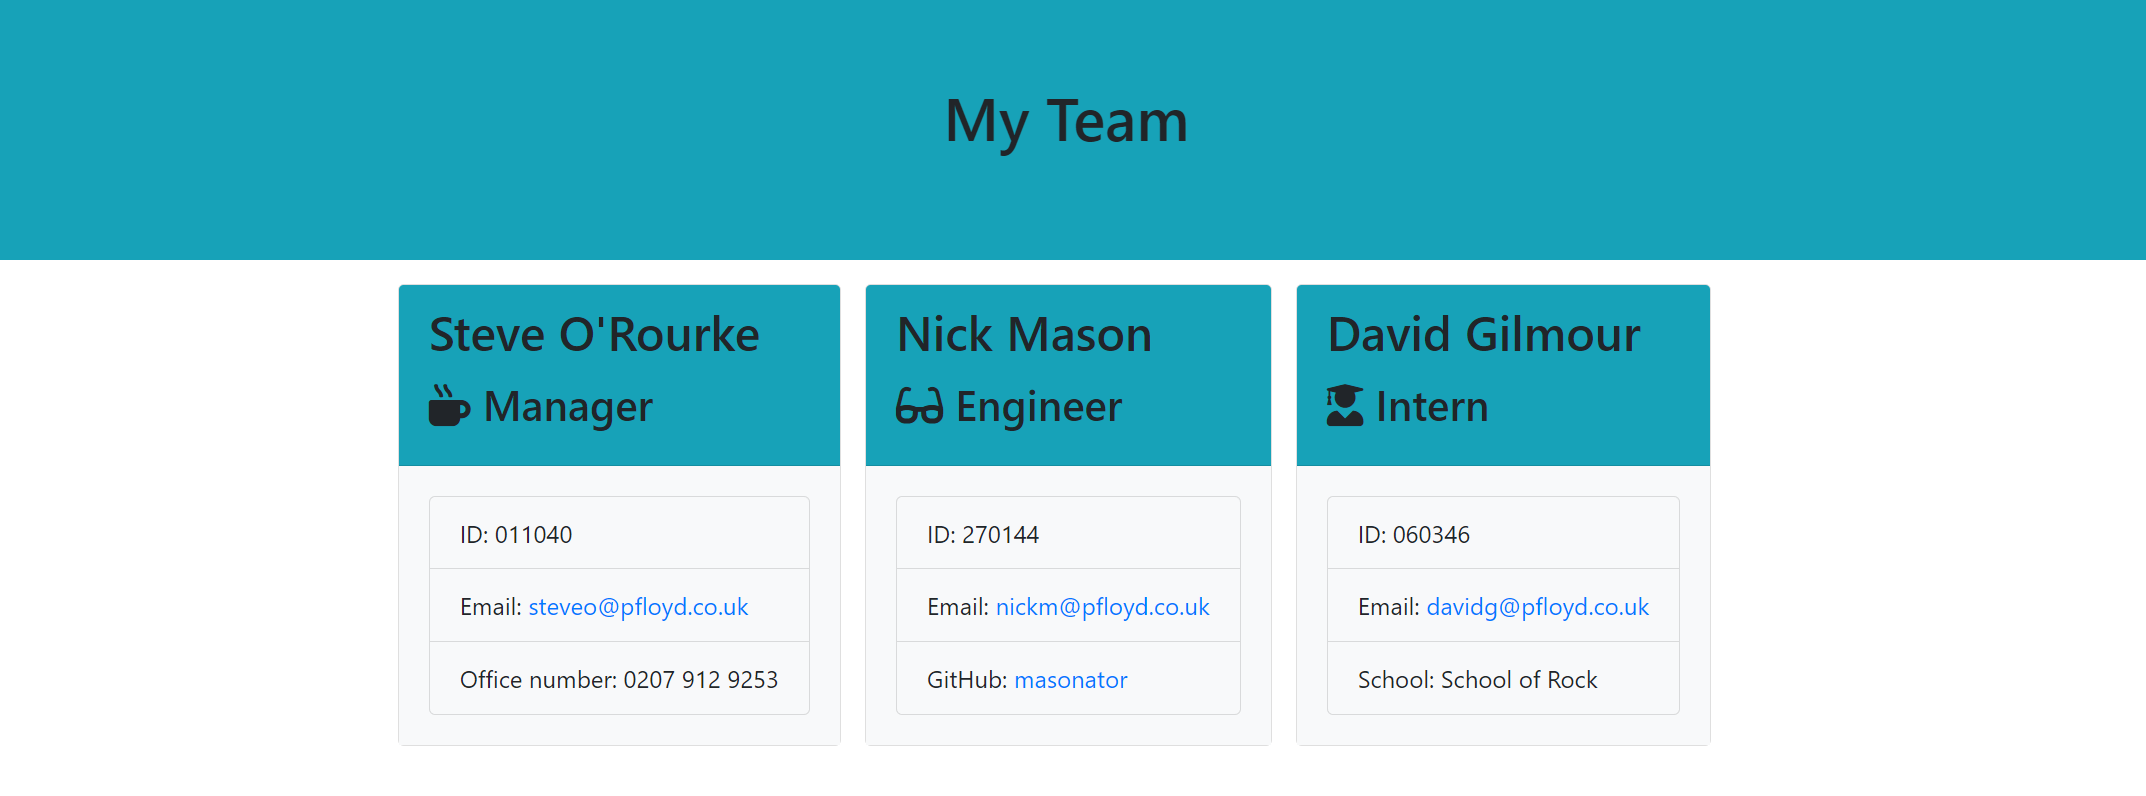
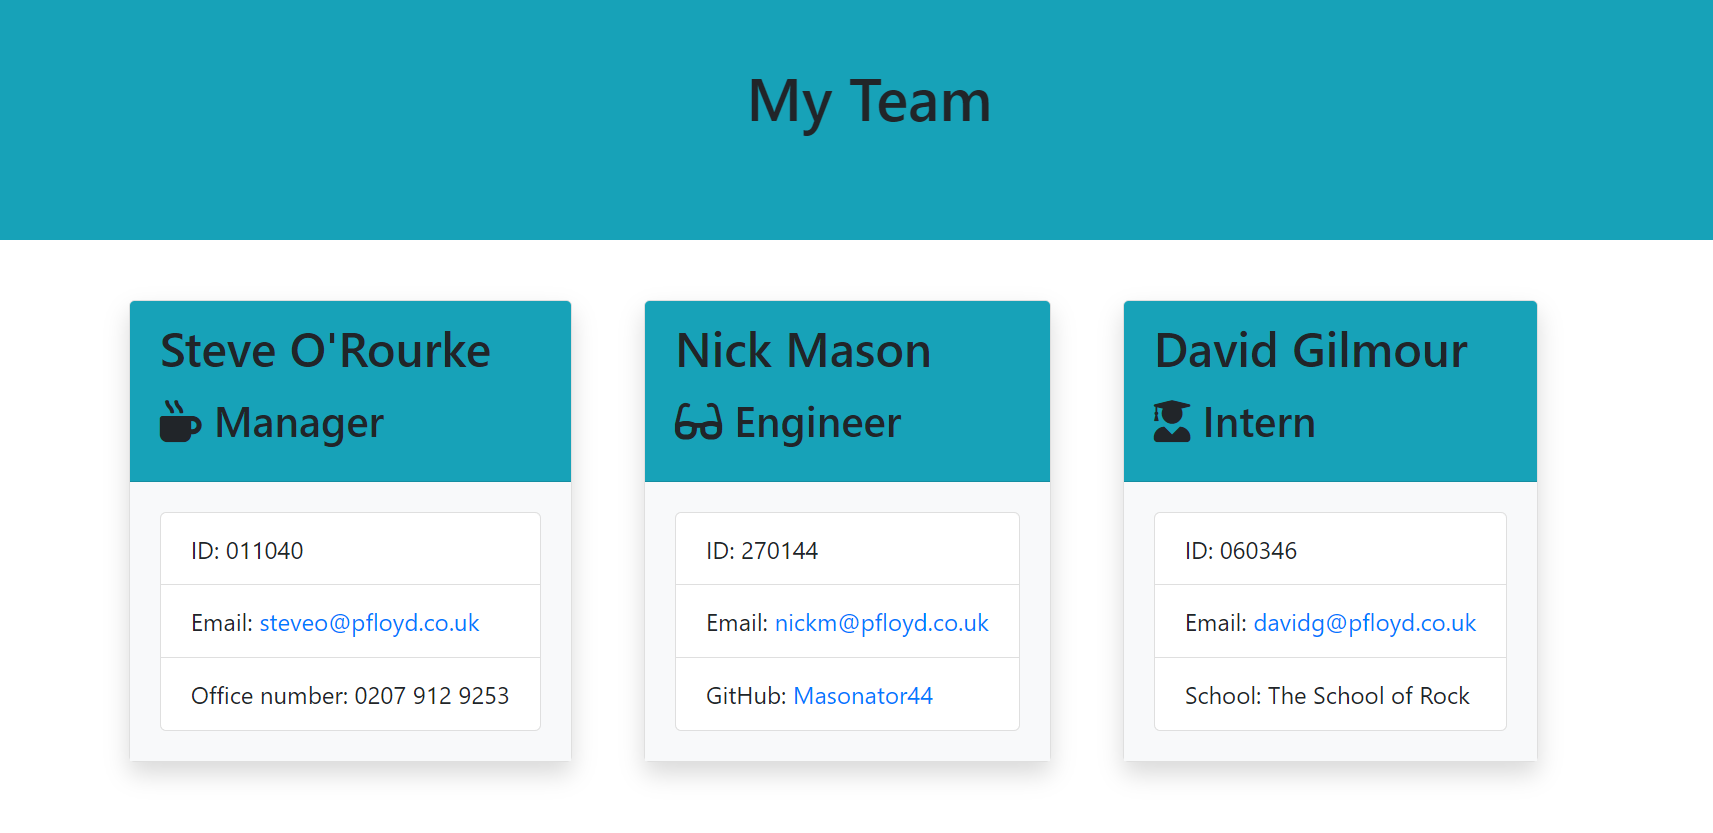
added flex wrap CSS to card containers to wrap cards to next row when lots of team members are added

diff --git a/src/page-template.js b/src/page-template.js
@@ -4,16 +4,16 @@ const generateTeam = team => {
     // creates the manager html
     const generateManager = manager => {
         return `
-        <div class="card employee-card mr-3">
+        <div class="card employee-card mt-3 shadow">
         <div class="card-header bg-info">
             <h2 class="card-title">${manager.getName()}</h2>
             <h3 class="card-title"><i class="fas fa-mug-hot mr-2"></i>${manager.getRole()}</h3>
         </div>
         <div class="card-body bg-light">
             <ul class="list-group">
-                <li class="list-group-item bg-light">ID: ${manager.getId()}</li>
-                <li class="list-group-item bg-light">Email: <a href="mailto:${manager.getEmail()}">${manager.getEmail()}</a></li>
-                <li class="list-group-item bg-light">Office number: ${manager.getOfficeNumber()}</li>
+                <li class="list-group-item">ID: ${manager.getId()}</li>
+                <li class="list-group-item">Email: <a href="mailto:${manager.getEmail()}">${manager.getEmail()}</a></li>
+                <li class="list-group-item">Office number: ${manager.getOfficeNumber()}</li>
             </ul>
         </div>
     </div>
@@ -23,16 +23,16 @@ const generateTeam = team => {
     // creates the html for engineers
     const generateEngineer = engineer => {
         return `
-        <div class="card employee-card mr-3">
+        <div class="card employee-card mt-3 shadow">
     <div class="card-header bg-info">
         <h2 class="card-title">${engineer.getName()}</h2>
         <h3 class="card-title"><i class="fas fa-glasses mr-2"></i>${engineer.getRole()}</h3>
     </div>
     <div class="card-body bg-light">
         <ul class="list-group">
-            <li class="list-group-item bg-light">ID: ${engineer.getId()}</li>
-            <li class="list-group-item bg-light">Email: <a href="mailto:${engineer.getEmail()}">${engineer.getEmail()}</a></li>
-            <li class="list-group-item bg-light">GitHub: <a href="https://github.com/${engineer.getGithub()}" target="_blank" rel="noopener noreferrer">${engineer.getGithub()}</a></li>
+            <li class="list-group-item">ID: ${engineer.getId()}</li>
+            <li class="list-group-item">Email: <a href="mailto:${engineer.getEmail()}">${engineer.getEmail()}</a></li>
+            <li class="list-group-item">GitHub: <a href="https://github.com/${engineer.getGithub()}" target="_blank" rel="noopener noreferrer">${engineer.getGithub()}</a></li>
         </ul>
     </div>
 </div>
@@ -42,16 +42,16 @@ const generateTeam = team => {
     // creates the html for interns
     const generateIntern = intern => {
         return `
-        <div class="card employee-card mr-3">
+        <div class="card employee-card mt-3 shadow">
     <div class="card-header bg-info">
         <h2 class="card-title">${intern.getName()}</h2>
         <h3 class="card-title"><i class="fas fa-user-graduate mr-2"></i>${intern.getRole()}</h3>
     </div>
     <div class="card-body bg-light">
         <ul class="list-group">
-            <li class="list-group-item bg-light">ID: ${intern.getId()}</li>
-            <li class="list-group-item bg-light">Email: <a href="mailto:${intern.getEmail()}">${intern.getEmail()}</a></li>
-            <li class="list-group-item bg-light">School: ${intern.getSchool()}</li>
+            <li class="list-group-item">ID: ${intern.getId()}</li>
+            <li class="list-group-item">Email: <a href="mailto:${intern.getEmail()}">${intern.getEmail()}</a></li>
+            <li class="list-group-item">School: ${intern.getSchool()}</li>
         </ul>
     </div>
 </div>
@@ -107,7 +107,7 @@ module.exports = team => {
     </div>
     <div class="container">
         <div class="row">
-            <div class="team-area col-12 d-flex justify-content-center">
+            <div class="team-area col-12 d-flex flex-wrap justify-content-around">
                 ${generateTeam(team)}
             </div>
         </div>

diff --git a/output/Pink Floyd.html b/output/Pink Floyd.html
@@ -25,44 +25,44 @@
         <div class="row">
             <div class="team-area col-12 d-flex justify-content-center">
                 
-        <div class="card employee-card mr-3">
+        <div class="card employee-card mt-4 mr-5 shadow">
         <div class="card-header bg-info">
             <h2 class="card-title">Steve O'Rourke</h2>
             <h3 class="card-title"><i class="fas fa-mug-hot mr-2"></i>Manager</h3>
         </div>
         <div class="card-body bg-light">
             <ul class="list-group">
-                <li class="list-group-item bg-light">ID: 011040</li>
-                <li class="list-group-item bg-light">Email: <a href="mailto:steveo@pfloyd.co.uk">steveo@pfloyd.co.uk</a></li>
-                <li class="list-group-item bg-light">Office number: 0207 912 9253</li>
+                <li class="list-group-item">ID: 011040</li>
+                <li class="list-group-item">Email: <a href="mailto:steveo@pfloyd.co.uk">steveo@pfloyd.co.uk</a></li>
+                <li class="list-group-item">Office number: 0207 912 9253</li>
             </ul>
         </div>
     </div>
         
-        <div class="card employee-card mr-3">
+        <div class="card employee-card mt-4 mr-5 shadow">
     <div class="card-header bg-info">
         <h2 class="card-title">Nick Mason</h2>
         <h3 class="card-title"><i class="fas fa-glasses mr-2"></i>Engineer</h3>
     </div>
     <div class="card-body bg-light">
         <ul class="list-group">
-            <li class="list-group-item bg-light">ID: 270144</li>
-            <li class="list-group-item bg-light">Email: <a href="mailto:nickm@pfloyd.co.uk">nickm@pfloyd.co.uk</a></li>
-            <li class="list-group-item bg-light">GitHub: <a href="https://github.com/masonator" target="_blank" rel="noopener noreferrer">masonator</a></li>
+            <li class="list-group-item">ID: 270144</li>
+            <li class="list-group-item">Email: <a href="mailto:nickm@pfloyd.co.uk">nickm@pfloyd.co.uk</a></li>
+            <li class="list-group-item">GitHub: <a href="https://github.com/Masonator44" target="_blank" rel="noopener noreferrer">Masonator44</a></li>
         </ul>
     </div>
 </div>
         
-        <div class="card employee-card mr-3">
+        <div class="card employee-card mt-4 mr-5 shadow">
     <div class="card-header bg-info">
         <h2 class="card-title">David Gilmour</h2>
         <h3 class="card-title"><i class="fas fa-user-graduate mr-2"></i>Intern</h3>
     </div>
     <div class="card-body bg-light">
         <ul class="list-group">
-            <li class="list-group-item bg-light">ID: 060346</li>
-            <li class="list-group-item bg-light">Email: <a href="mailto:davidg@pfloyd.co.uk">davidg@pfloyd.co.uk</a></li>
-            <li class="list-group-item bg-light">School: School of Rock</li>
+            <li class="list-group-item">ID: 060346</li>
+            <li class="list-group-item">Email: <a href="mailto:davidg@pfloyd.co.uk">davidg@pfloyd.co.uk</a></li>
+            <li class="list-group-item">School: The School of Rock</li>
         </ul>
     </div>
 </div>

diff --git a/index.js b/index.js
@@ -11,7 +11,6 @@ const render = require("./src/page-template.js");
 
 // WISHLIST: 
     // Add validation to ensure the input is correct for each question
-    // Sort CSS so it looks better
     // Change the My Team in HTML to be the teamName, ${teamName} export a variable from here? or push teamName to the team array and access it in the page template if the array is being sent there via render?
     // Ask Ivan - how is the render(team) working? Is it exporting the team array to the page-template?
                         // html.push(team
